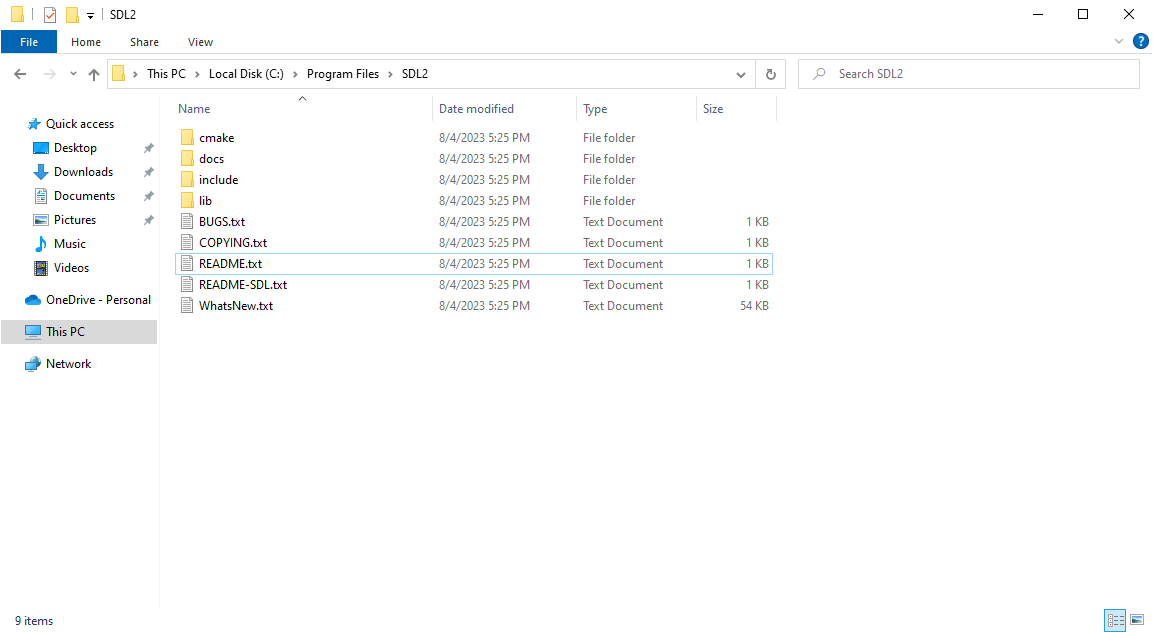
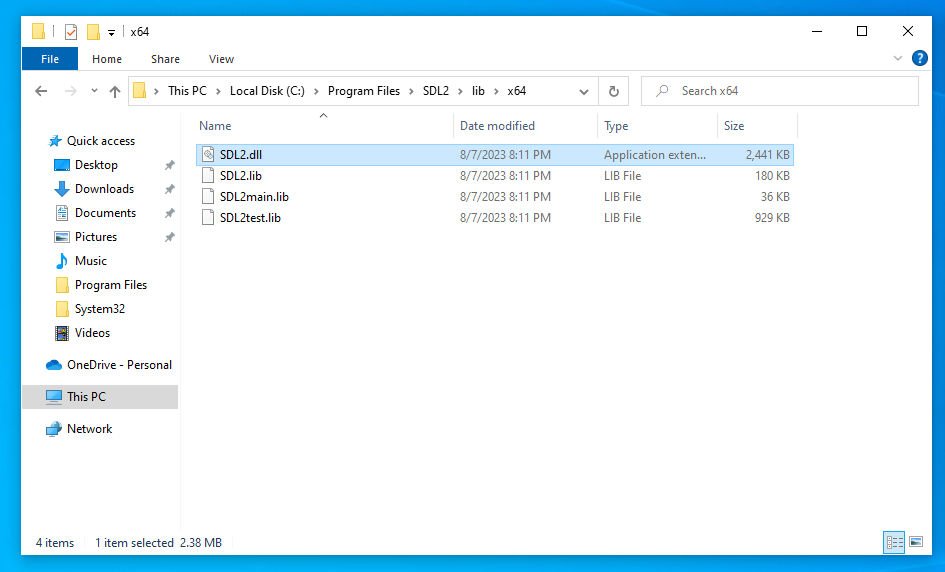
P1 publicado

Changed region(s): [[0.0, 0.0, 1.0, 1.0]]

diff --git a/_assignments/P01-configuracao-inicial.md b/_assignments/P01-configuracao-inicial.md
@@ -3,7 +3,7 @@ type: assignment
 date: 2023-08-18T08:00
 title: 'P1: Configuração Inicial'
 permalink: '/avaliacoes/p1-configuracao-inicial/'
-hide_from_announcments: true
+hide_from_announcments: false
 # pdf: /static_files/assignments/asg.pdf
 # attachment: /static_files/assignments/asg.zip
 # solutions: /static_files/assignments/asg_solutions.pdf
@@ -20,7 +20,7 @@ Jogos digitais são projetos de software relativamente grandes e complexos. Send
 
 ## Objetivo
 
-Nesse projeto você irá configurar o ambiente de desenvolvimento de jogos que será utilizado ao longo do curso. Primeiro você irá baixar e instalar a IDE CLion para programação e teste dos jogos. Em seguida, você irá criar um repositório GitHub para o controle de versão e submissão do seu trabalho. Além disso, como primeiro projeto do seu repositório, você irá escrever um pequeno programa em C++ usando a biblioteca SDL para desenhar um quadrado em uma janela. A figura a seguir ilustra o resultado esperado desse projeto:
+Nesse projeto você irá configurar o ambiente de desenvolvimento de jogos que será utilizado ao longo do curso. Primeiro você irá baixar e instalar a IDE CLion para programação e teste dos jogos. Em seguida, você irá criar um repositório GitHub (via Gihub Classroom) para o controle de versão e submissão do seu trabalho. Além disso, como primeiro projeto do seu repositório, você irá escrever um pequeno programa em C++ usando a biblioteca SDL para desenhar um quadrado em uma janela. A figura a seguir ilustra o resultado esperado desse projeto:
 
 <img src="{{'/_images/asg/p1/result2.png' | prepend: site.baseurl }}" alt="p1-configuracao-inicial" width="560"/>
 
@@ -46,7 +46,7 @@ Na primeira parte, você irá baixar e instalar a IDE CLion e a biblioteca SDL.
 
     1. Acesse o site da CLion [**[nesse link]**](https://www.jetbrains.com/clion) e siga as instruções de instalação para o seu sistema operacional;
 
-    2. Durante a instalação, crie uma conta utilizando o seu email da UFV, o que irá ativar uma licensa gratuita
+    2. Durante a instalação, crie uma conta utilizando o seu email da UFV, o que irá ativar uma licensa gratuita.
 
 2. **Instalar a bilioteca SDL**
 
@@ -65,22 +65,26 @@ Na primeira parte, você irá baixar e instalar a IDE CLion e a biblioteca SDL.
             sudo make install
             ```
 
-    - **Windows**
+    - **Windows (64 bits)**
 
-        1. Acesse o site da versão 2.28.2 da SDL [**[nesse link]**](https://github.com/libsdl-org/SDL/releases/tag/release-2.28.2) e baixe o pacote `SDL2-devel-2.28.2-mingw.zip`
+        1. Acesse o site da versão 2.28.2 da SDL [**[nesse link]**](https://github.com/libsdl-org/SDL/releases/tag/release-2.28.2) e baixe o pacote `SDL2-devel-2.28.2-VC.zip`
 
-        2. Extraia o conteúdo do pacote no diretório `C:\Arquivos de Programas\SDL2\`. Ao final dessa etapa, a SDL deve estar configurada dessa maneira:
+        2. Extraia o conteúdo do pacote no diretório `C:\Arquivos de Programas\SDL2\`, como na figura a seguir:
 
-            <img src="{{'/_images/asg/p1/parte1-win.png' | prepend: site.baseurl }}" alt="p1-parte1" width="560"/>
+            <img src="{{'/_images/asg/p1/parte1-win.png' | prepend: site.baseurl }}" alt="p1-parte1" width="1024"/>
+
+        3. Copie o arquivo `SDL2.dll` do diretório `C:\Arquivos de Programas\SDL2\lib\x64\` para o diretório `C:\Windows\System32\`, como na figura a seguir:
+
+            <img src="{{'/_images/asg/p1/parte2-win.png' | prepend: site.baseurl }}" alt="p1-parte2" width="1024"/>            
 
     - **Mac**
         1. Acesse o site da versão 2.28.2 da SDL [**[nesse link]**](https://github.com/libsdl-org/SDL/releases/tag/release-2.28.2) e baixe o pacote `SDL2-2.28.2.dmg`
 
         2. Clique na imagem para abrí-la e copie e o pacote `SDL2.framework` para o diretório `/Library/Frameworks/`. Ao final dessa etapa, a SDL deve estar configurada dessa maneira:
 
-            <img src="{{'/_images/asg/p1/parte1-mac.png' | prepend: site.baseurl }}" alt="p1-parte1" width="560"/>
+            <img src="{{'/_images/asg/p1/parte1-mac.png' | prepend: site.baseurl }}" alt="p1-parte1" width="1024"/>
 
-### **Parte 2: Um primeiro programa SDL**
+### **Parte 2: primeiro programa SDL**
 
 Nessa etapa, você irá utilizar a IDE Clion para escrever um programa em C++/SDL que desenha um quadrado em uma janela.
 
@@ -91,17 +95,17 @@ Nessa etapa, você irá utilizar a IDE Clion para escrever um programa em C++/SD
 
         1. Inicialize o subsistema de vídeo da SDL (`SDL_INIT_VIDEO`) com a função [`SDL_Init`](https://wiki.libsdl.org/SDL2/SDL_Init) e verifique se a inicialização ocorreu com sucesso. Se não, imprima uma mensagem de erro para o usuário com a função SDL_Log e retorne -1;
 
-        2. Crie uma janela (escolha largura e altura) usando a função [`SDL_CreateWindow`](https://wiki.libsdl.org/SDL2/SDL_CreateWindow) e verifique se a criação ocorreu com     sucesso. Se não, imprima uma mensagem de erro para o usuário com a função SDL_Log e retorne -1;
+        2. Crie uma janela com tamanho 1024x768 usando a função [`SDL_CreateWindow`](https://wiki.libsdl.org/SDL2/SDL_CreateWindow) e verifique se a criação ocorreu com sucesso. Se não, imprima uma mensagem de erro para o usuário com a função SDL_Log e retorne -1;
 
         3. Crie um buffer de fundo usando a função [`SDL_CreateRenderer`](https://wiki.libsdl.org/SDL2/SDL_CreateRenderer). Utilize as flags `SDL_RENDERER_ACCELERATED` e `SDL_RENDERER_PRESENTVSYNC`. Verifique se a criação ocorreu com sucesso. Se não, imprima uma mensagem de erro para o usuário com a função SDL_Log e retorne -1;
 
-        4. Utilize a função [`SDL_SetRenderDrawColor`](https://wiki.libsdl.org/SDL2/SDL_SetRenderDrawColor) para altere a cor de fundo (escolha a cor);
+        4. Utilize a função [`SDL_SetRenderDrawColor`](https://wiki.libsdl.org/SDL2/SDL_SetRenderDrawColor) para alterar a cor de fundo para preto;
 
-        5. Utilize a função [`SDL_RenderClear`](https://wiki.libsdl.org/SDL2/SDL_RenderClear) para limpar o buffer de fundo com a cor configurada anteriormente;
+        5. Utilize a função [`SDL_RenderClear`](https://wiki.libsdl.org/SDL2/SDL_RenderClear) para limpar o buffer de fundo com a cor preta, conforme configurado na etapa anterior;
 
-        6. Utilize a função [`SDL_SetRenderDrawColor`](https://wiki.libsdl.org/SDL2/SDL_SetRenderDrawColor) novamente para alterar a cor do quadrado (escolha a cor) que será desenhado;
+        6. Utilize a função [`SDL_SetRenderDrawColor`](https://wiki.libsdl.org/SDL2/SDL_SetRenderDrawColor) novamente para alterar a cor do quadrado que será desenhado para branco;
 
-        7. Crie um quadrado com a estrutura [`SDL_Rect`](https://wiki.libsdl.org/SDL2/SDL_Rect) e utilize a função [`SDL_RenderFillRect`](https://wiki.libsdl.org/SDL2/SDL_RenderFillRect) para desenhá-lo no buffer de fundo;
+        7. Crie um quadrado no meio da tela com a estrutura [`SDL_Rect`](https://wiki.libsdl.org/SDL2/SDL_Rect) e utilize a função [`SDL_RenderFillRect`](https://wiki.libsdl.org/SDL2/SDL_RenderFillRect) para desenhá-lo no buffer de fundo;
         
         8. Utilize a função [`SDL_RenderPresent`](https://wiki.libsdl.org/SDL2/SDL_RenderPresent) para trocar o buffer da frente com o buffer de fundo;
 
